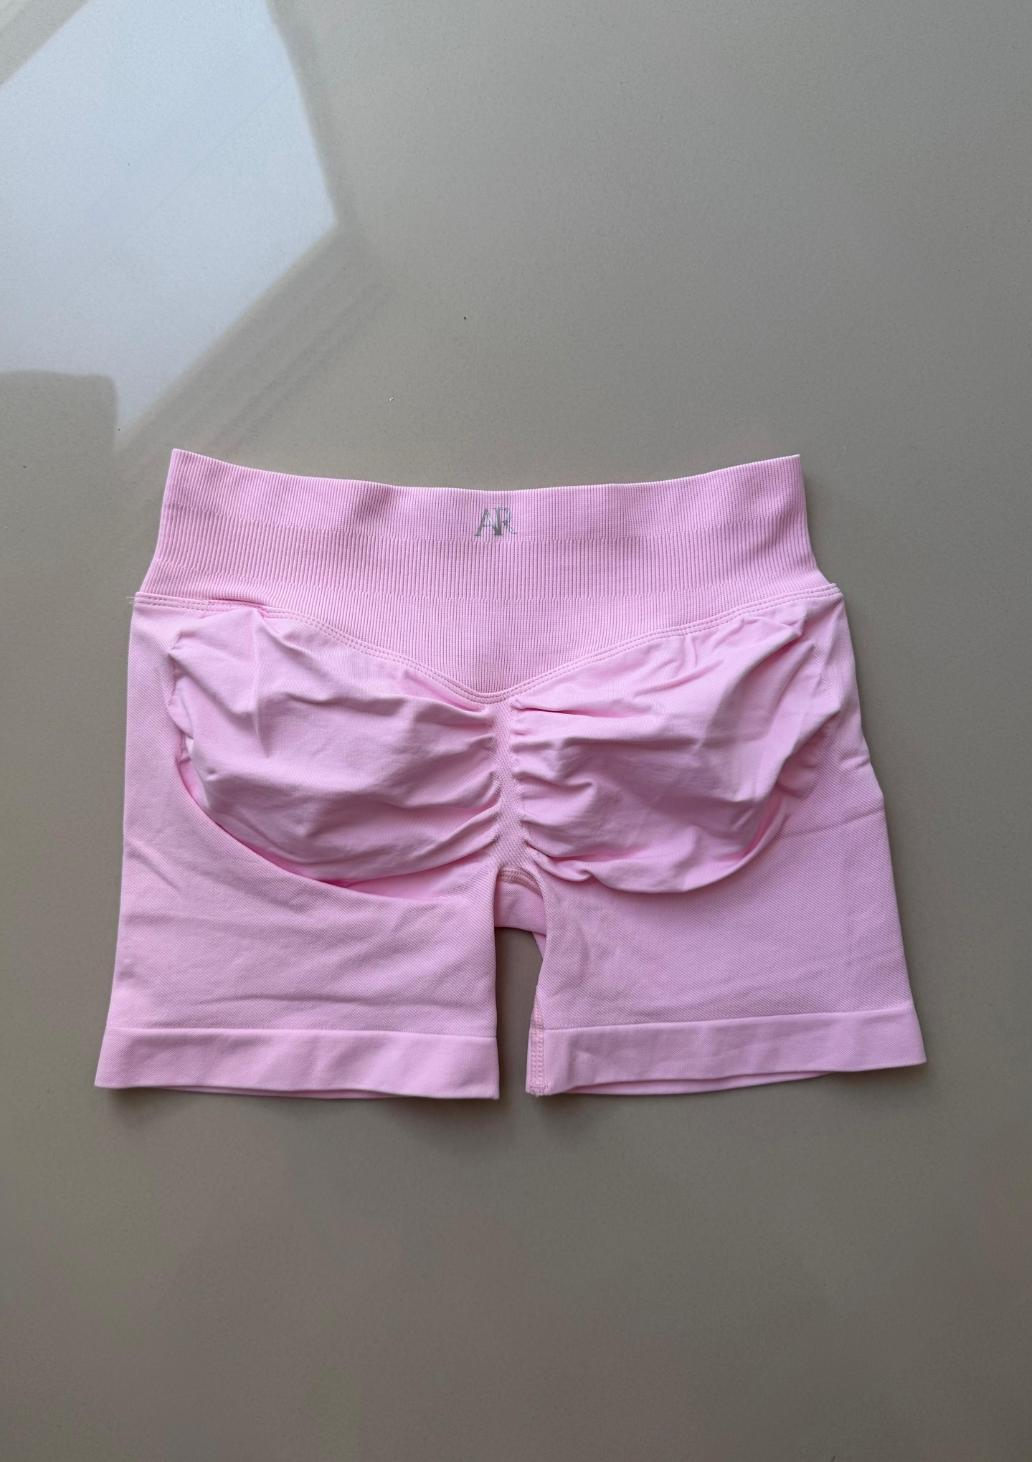
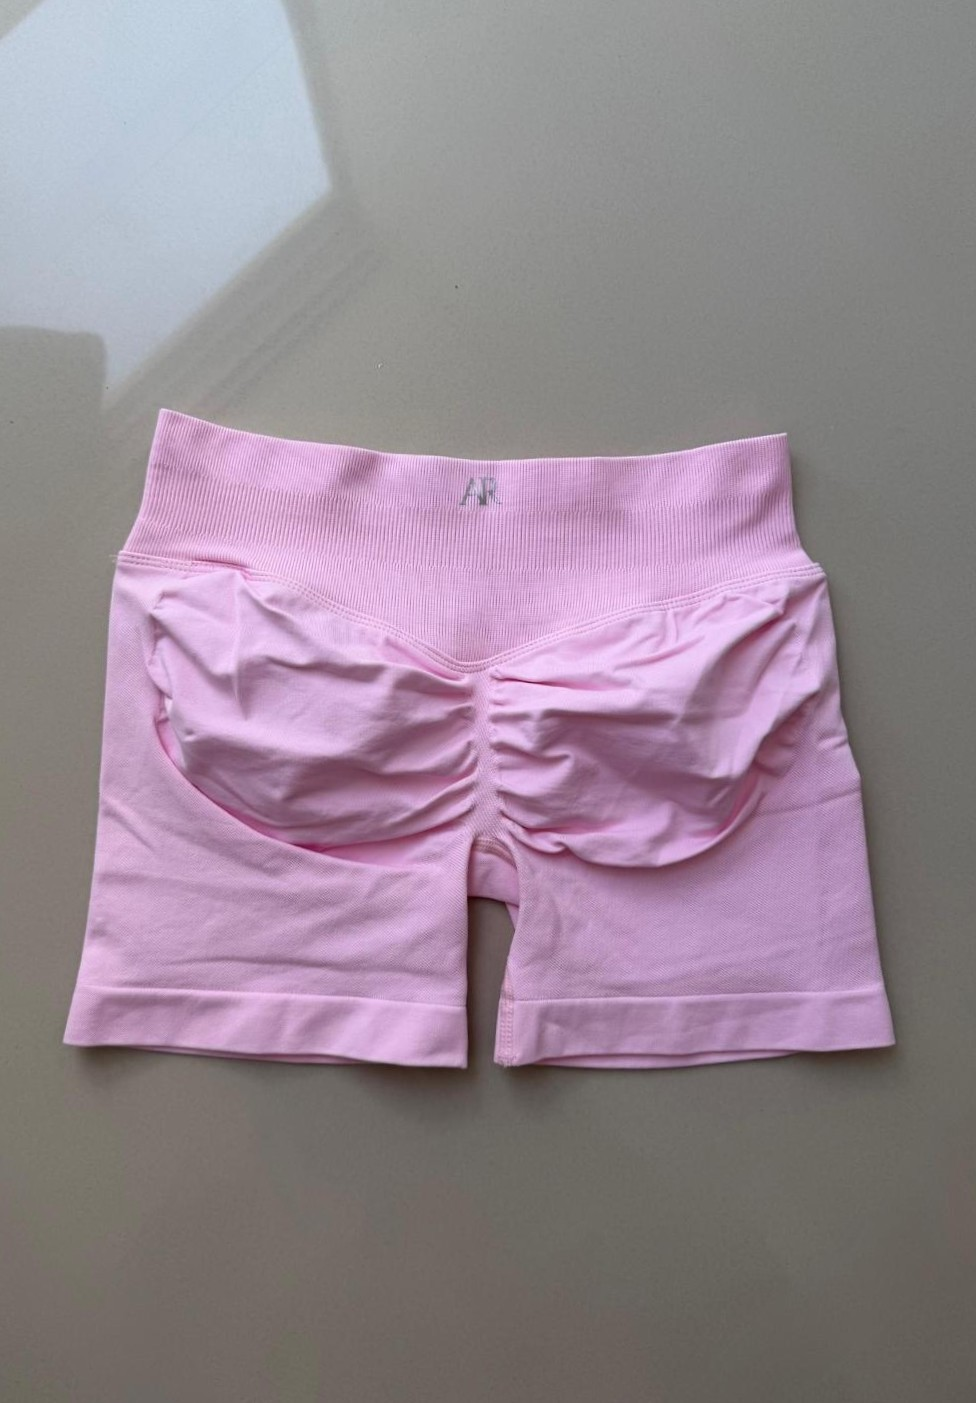
agregamos short rosado

diff --git a/src/Components/Assets/all_product.js b/src/Components/Assets/all_product.js
@@ -505,10 +505,10 @@ let all_product = [
     name: "SHORT CORAZÓN - TONO ROSADO",
     category: "legginsyfaldas",
     description: "Tela completamente acanalada",
-    image: shortfucsias1,
-    image2: shortfucsias2,
-    image3: shortfucsias3,
-    image4: shortfucsias4,
+    image: setcorazonrosado1,
+    image2: setcorazonrosado2,
+    image3: setcorazonrosado3,
+    image4: setcorazonrosado4,
     new_price: 38000,
     old_price: 50000,
     offer: false,